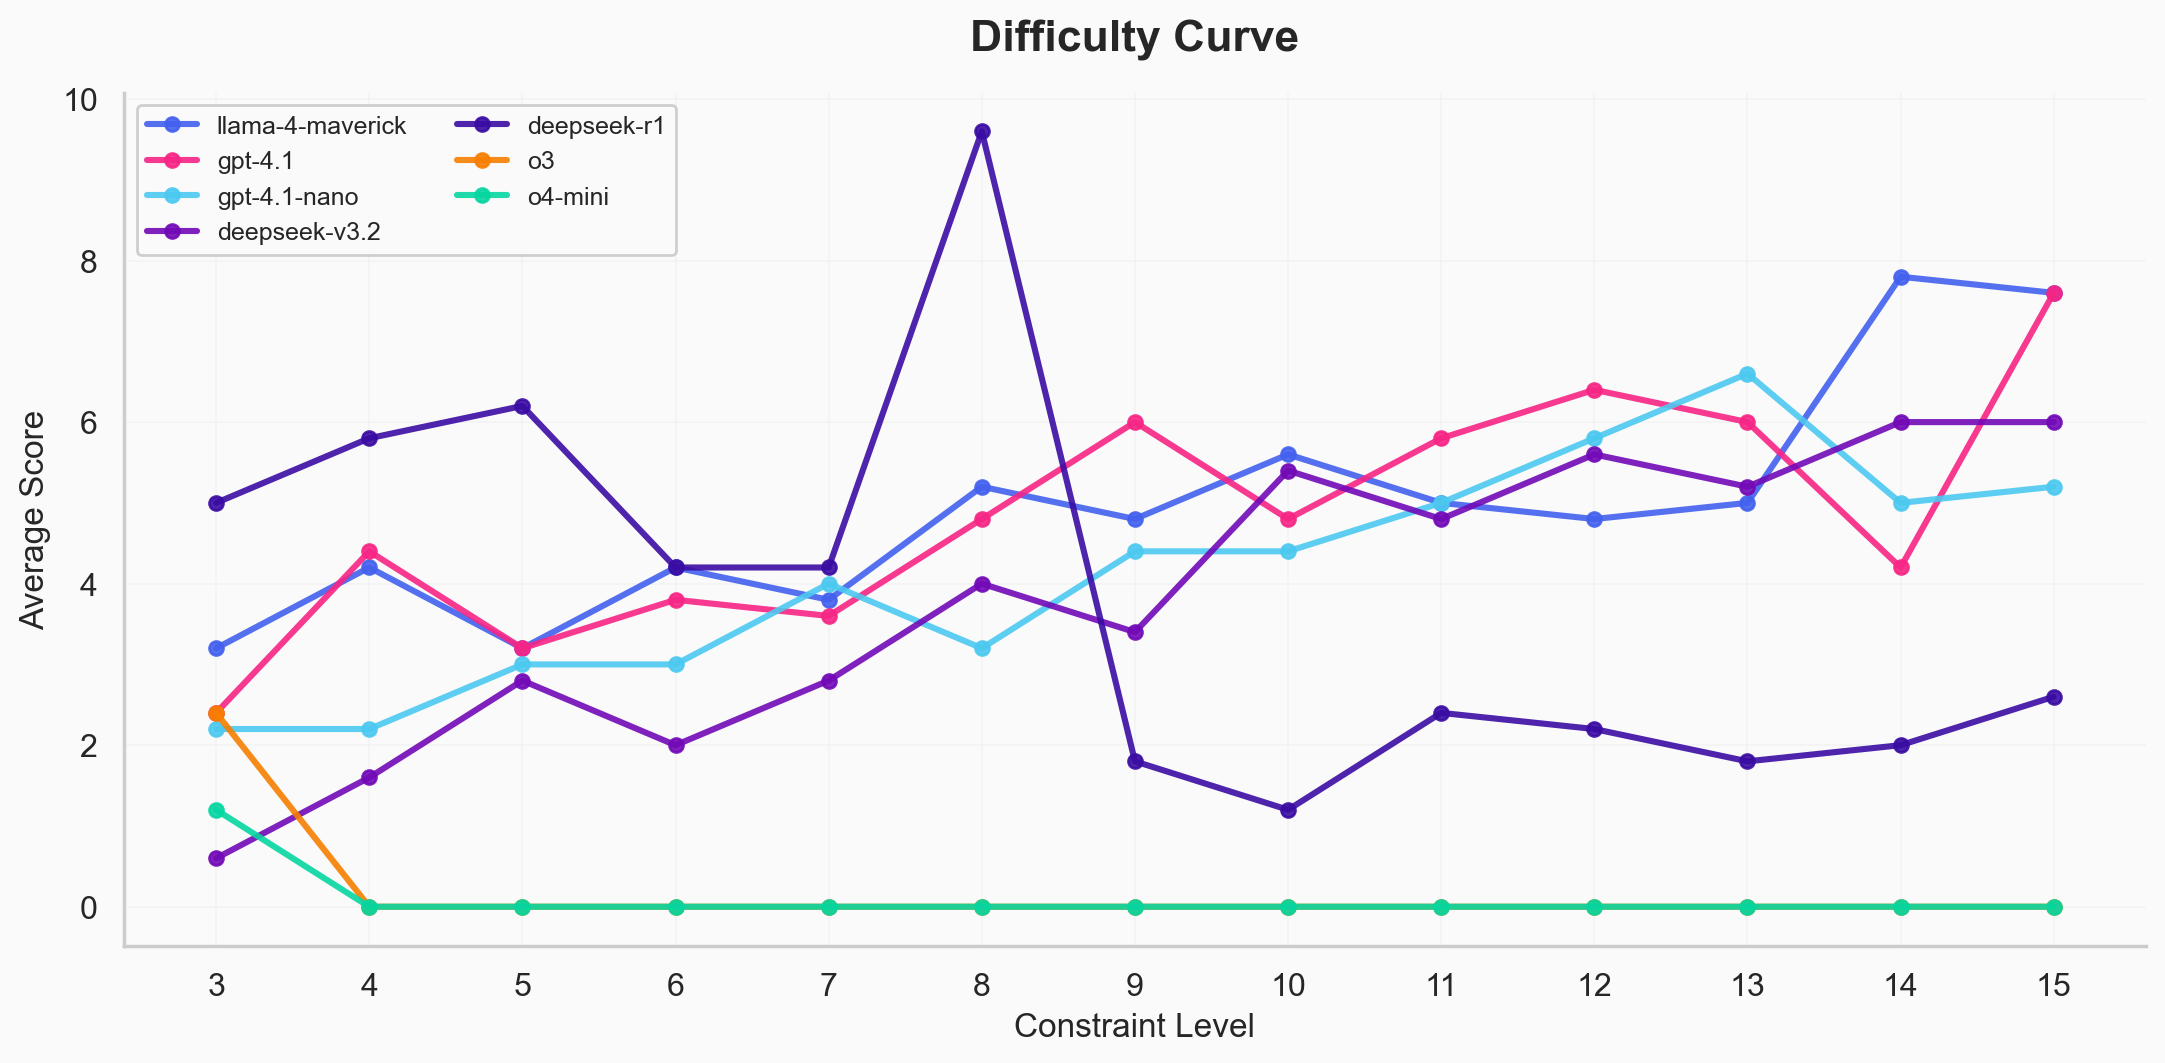
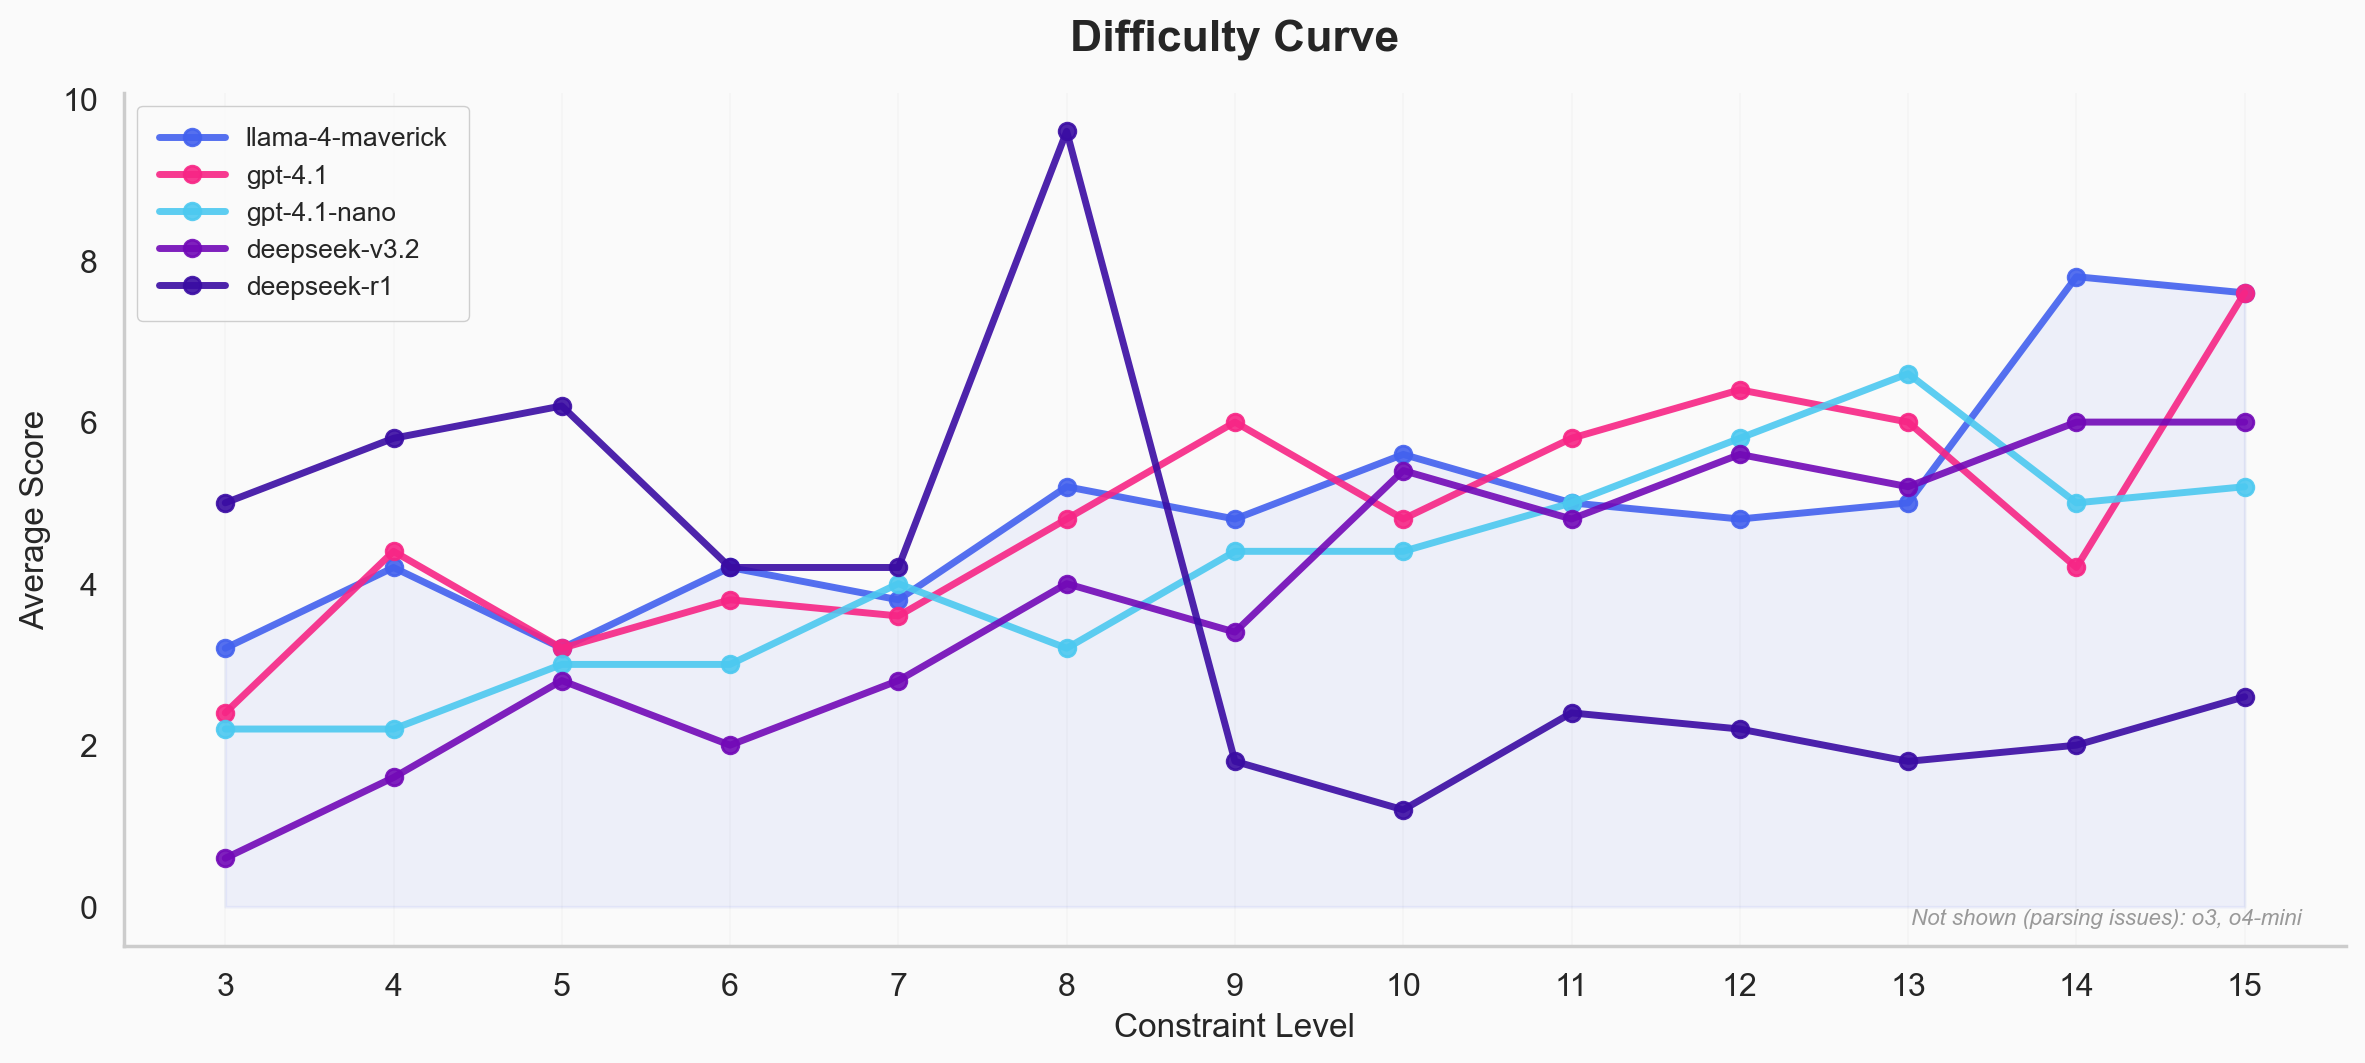
Improve leaderboard and difficulty curve charts
- Leaderboard: 3-panel layout (score + validity + perfect rate)
- Difficulty curve: filter broken models, subtle fill for #1

diff --git a/visualization.py b/visualization.py
@@ -61,32 +61,59 @@ def plot_leaderboard(results: dict, save_dir: str | None = None):
     names = [short_name(m) for m, _ in ranked]
     scores = [d["total_score"] for _, d in ranked]
     validity = [d["validity_ratio"] * 100 for _, d in ranked]
+    perfect = [d["perfect_solve_rate"] * 100 for _, d in ranked]
+    max_score = max(scores) if scores else 1
 
-    fig, ax = plt.subplots(figsize=(10, max(4, len(names) * 0.55)))
-
-    bars = ax.barh(
-        range(len(names)), scores,
-        color=PALETTE[:len(names)], edgecolor="white", linewidth=0.5, height=0.7,
+    fig, (ax_score, ax_val, ax_perf) = plt.subplots(
+        1, 3, figsize=(14, max(3.5, len(names) * 0.5)),
+        gridspec_kw={"width_ratios": [3, 1.2, 1.2], "wspace": 0.08},
     )
-    ax.set_yticks(range(len(names)))
-    ax.set_yticklabels(names, fontsize=11, fontweight="medium")
-    ax.invert_yaxis()
-    ax.set_xlabel("Total Score", fontsize=12, fontweight="medium")
 
-    for bar, score, val in zip(bars, scores, validity):
-        ax.text(
-            bar.get_width() + max(scores) * 0.015,
+    y = range(len(names))
+    colors = PALETTE[:len(names)]
+
+    # Score bars
+    bars = ax_score.barh(
+        y, scores, color=colors, edgecolor="white", linewidth=0.5, height=0.65,
+    )
+    ax_score.set_yticks(y)
+    ax_score.set_yticklabels(names, fontsize=11, fontweight="medium")
+    ax_score.invert_yaxis()
+    ax_score.set_xlabel("Total Score", fontsize=10, fontweight="medium")
+    ax_score.set_xlim(0, max_score * 1.22)
+    ax_score.grid(axis="x", alpha=0.3)
+    ax_score.grid(axis="y", visible=False)
+    for bar, score in zip(bars, scores):
+        ax_score.text(
+            bar.get_width() + max_score * 0.02,
             bar.get_y() + bar.get_height() / 2,
-            f"{score}  ({val:.0f}% valid)",
-            va="center", fontsize=9.5, color="#444444",
+            str(score), va="center", fontsize=10, fontweight="bold", color="#333",
         )
 
-    ax.set_xlim(0, max(scores) * 1.35)
-    ax.set_title("AutismBench Leaderboard", fontsize=16, fontweight="bold", pad=15)
-    ax.grid(axis="x", alpha=0.4)
-    ax.grid(axis="y", visible=False)
+    # Validity bars
+    ax_val.barh(y, validity, color=colors, edgecolor="white", linewidth=0.5, height=0.65, alpha=0.7)
+    ax_val.invert_yaxis()
+    ax_val.set_xlabel("Validity %", fontsize=10, fontweight="medium")
+    ax_val.set_xlim(0, 109)
+    ax_val.set_yticks([])
+    ax_val.grid(axis="x", alpha=0.3)
+    ax_val.grid(axis="y", visible=False)
+    for i, v in enumerate(validity):
+        ax_val.text(v + 1.5, i, f"{v:.0f}%", va="center", fontsize=9, color="#555")
 
-    fig.tight_layout()
+    # Perfect rate bars
+    ax_perf.barh(y, perfect, color=colors, edgecolor="white", linewidth=0.5, height=0.65, alpha=0.7)
+    ax_perf.invert_yaxis()
+    ax_perf.set_xlabel("Perfect %", fontsize=10, fontweight="medium")
+    ax_perf.set_xlim(0, max(max(perfect) * 1.4, 10))
+    ax_perf.set_yticks([])
+    ax_perf.grid(axis="x", alpha=0.3)
+    ax_perf.grid(axis="y", visible=False)
+    for i, p in enumerate(perfect):
+        ax_perf.text(p + 0.5, i, f"{p:.0f}%", va="center", fontsize=9, color="#555")
+
+    fig.suptitle("AutismBench Leaderboard", fontsize=16, fontweight="bold", y=1.02)
+    fig.subplots_adjust(left=0.12, right=0.97, top=0.88, bottom=0.15)
     if save_dir:
         fig.savefig(f"{save_dir}/leaderboard.png", dpi=200, bbox_inches="tight")
     return fig
@@ -97,9 +124,13 @@ def plot_difficulty_curve(results: dict, save_dir: str | None = None):
     ranked = sorted(models.items(), key=lambda x: x[1]["total_score"], reverse=True)
     levels = sorted(int(l) for l in list(models.values())[0]["levels"].keys())
 
-    fig, ax = plt.subplots(figsize=(11, 5.5))
+    # Split into meaningful vs broken models (validity > 5%)
+    active = [(m, d) for m, d in ranked if d["validity_ratio"] > 0.05]
+    broken = [(m, d) for m, d in ranked if d["validity_ratio"] <= 0.05]
 
-    for i, (model, data) in enumerate(ranked):
+    fig, ax = plt.subplots(figsize=(12, 5.5))
+
+    for i, (model, data) in enumerate(active):
         name = short_name(model)
         avg_scores = []
         for level in levels:
@@ -108,20 +139,36 @@ def plot_difficulty_curve(results: dict, save_dir: str | None = None):
 
         ax.plot(
             levels, avg_scores,
-            marker="o", markersize=5, linewidth=2.2,
+            marker="o", markersize=6, linewidth=2.5,
             color=PALETTE[i % len(PALETTE)],
-            label=name, alpha=0.9,
+            label=name, alpha=0.9, zorder=3,
         )
+        # Subtle fill only for top model
+        if i == 0:
+            ax.fill_between(levels, avg_scores, alpha=0.07, color=PALETTE[i % len(PALETTE)])
 
     ax.set_xlabel("Constraint Level", fontsize=12, fontweight="medium")
     ax.set_ylabel("Average Score", fontsize=12, fontweight="medium")
     ax.set_title("Difficulty Curve", fontsize=16, fontweight="bold", pad=15)
     ax.set_xticks(levels)
-    ax.legend(
-        loc="upper left", fontsize=9, framealpha=0.95,
-        edgecolor="#CCCCCC", ncol=2,
+    ax.grid(axis="both", alpha=0.3)
+    ax.grid(axis="y", visible=False)
+
+    legend = ax.legend(
+        loc="upper left", fontsize=9.5, framealpha=0.95,
+        edgecolor="#CCCCCC", ncol=1, borderpad=0.8,
+        handlelength=2.5,
     )
-    ax.grid(axis="both", alpha=0.4)
+    legend.get_frame().set_linewidth(0.5)
+
+    if broken:
+        broken_names = ", ".join(short_name(m) for m, _ in broken)
+        ax.text(
+            0.98, 0.02,
+            f"Not shown (parsing issues): {broken_names}",
+            transform=ax.transAxes, ha="right", va="bottom",
+            fontsize=8, color="#999999", style="italic",
+        )
 
     fig.tight_layout()
     if save_dir:
